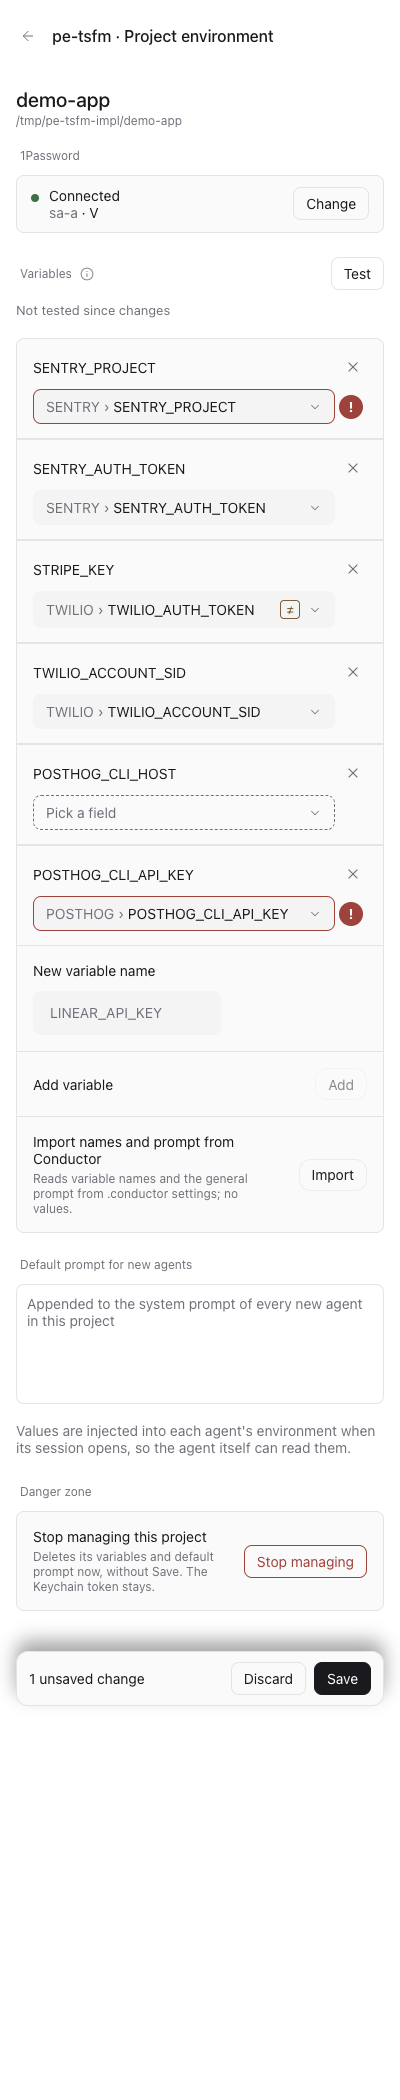
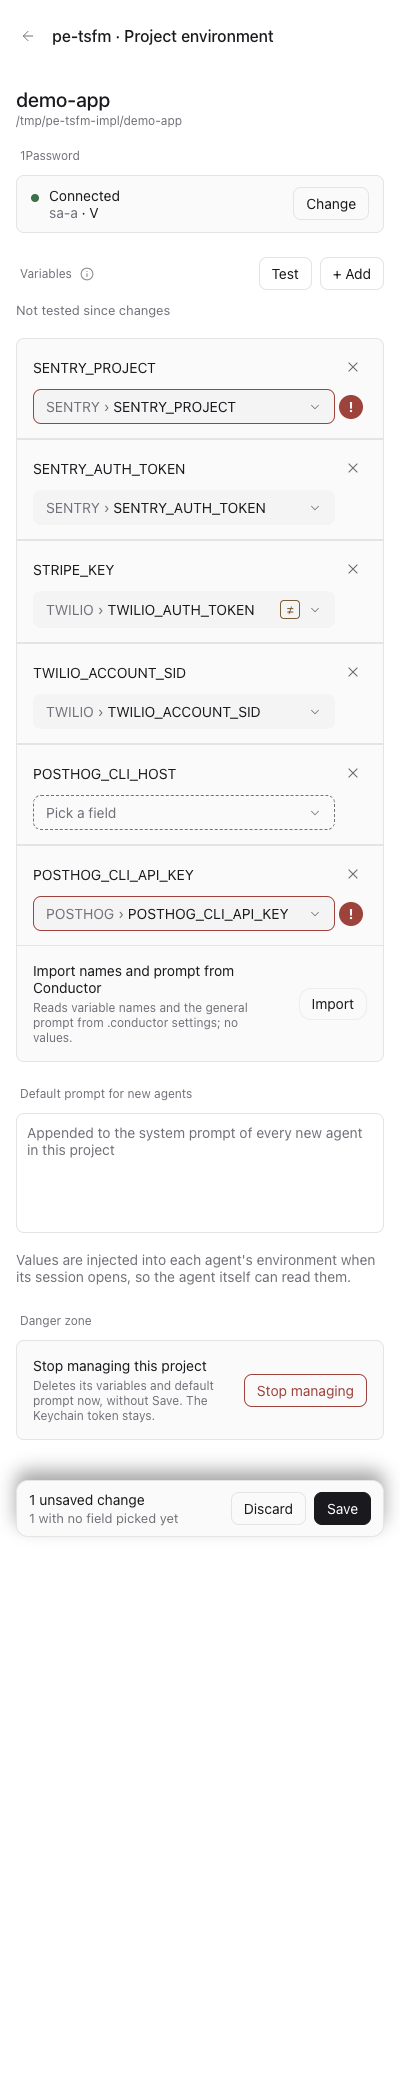
docs: project-env-test-summary-failure-mark feedback cycle 1 and main merge notes, evidence

Changed region(s): [[0.03, 0.4333, 0.99, 0.8048], [0.84, 0.5262, 0.87, 0.5571], [0.57, 0.4643, 0.6, 0.4952]]

diff --git a/project-env-test-summary-failure-mark/impl/measure.js b/project-env-test-summary-failure-mark/impl/measure.js
@@ -3,7 +3,7 @@
   const hit = (a, b) => a.l < b.r && b.l < a.r && a.t < b.b && b.t < a.b;
   const alert = document.querySelector('[role="alert"]');
   if (!alert) return JSON.stringify({ open: false });
-  let el = alert, own = null; while (el && !(own = el.querySelector('[aria-label*=" failed. "]'))) el = el.parentElement;
+  const own = [...document.querySelectorAll('[aria-label*=" failed. "]')].find((e) => e.getAttribute('aria-label').endsWith(' failed. ' + alert.textContent));
   const ownName = (own.getAttribute('aria-label').split(' failed. ')[0]);
   const a = rect(alert);
   const NAMES = ["SENTRY_PROJECT","SENTRY_AUTH_TOKEN","STRIPE_KEY","TWILIO_ACCOUNT_SID","POSTHOG_CLI_HOST","POSTHOG_CLI_API_KEY"];

diff --git a/project-env-test-summary-failure-mark.md b/project-env-test-summary-failure-mark.md
@@ -240,3 +240,37 @@ Captain: 「改 hover 泡泡」 (chat, choosing between the two options FO put)
 Asked: "回「改 hover 泡泡」或「維持下方一行」" — after FO's recommendation: "改回 hover 浮動泡泡，同時把 AC-1 放寬成「可以暫時蓋住鄰列，但不能蓋住這一列自己的欄位名稱」".
 Effect: the reason opens as a floating bubble (hover at 1280 px, click or tap at both widths), not as a line under the field. AC-1's "overlapping no other row's name, (!), field control or Remove button" is relaxed to: the open bubble may cover neighbouring rows while open, and never covers its own row's field name. The falsifier "a reason that covers another row" is withdrawn; "covers its own row's field name" replaces it.
 Supersedes: the implementation's line-under-the-field departure (candidate cad3e89).
+
+### Feedback cycle 1 (Captain amendment 1)
+
+- DONE: The reason opens as a floating bubble: hover at 1280 px, click or tap at both widths; it may cover neighbouring rows and never covers its own row's field name.
+  The bubble draws under the whole field (below the row's field control, however many lines it wraps to), above the rows below it. `shared/test-marks.ts` `nextMark` holds one open reason (hover shows, press pins, a second press closes while the pointer stays, another (!) replaces it); `client/failure-mark.tsx` `MarkBubble` is drawn in an overlay at the end of the Variables section because host rows each paint their own layer and a bubble inside its row went under the next row's text (seen in a screenshot).
+- DONE: One bubble open at a time; a second click on the (!) closes it even while the pointer stays; Tab then Enter opens it (validation Polish 1).
+  `test/test-marks.test.ts` "which (!) shows its reason" (4 tests), falsified by never closing on the second press and by a hover that keeps the old reason; `impl/out/cap-*.out` "second press closes while the pointer stays on the (!): alerts=0" at 1280 and 400 px, dark and light; `out/keys-*.out` Tab lands on the (!) and Enter opens then closes it.
+- DONE: Remove the comment in shared/test-marks.ts that restates `rowReason` (Polish 2).
+  Removed; `comment_ratio.py 0314c91 HEAD`: "code lines 387, comment lines 1, 0.3%", max 5% met.
+- DONE: Update measure.js and the tests to the amended AC-1.
+  `impl/measure.js` reports `coversOwnName`, `ownFieldTextCoveredByReason`, `statusTextOnRows` (status text such as "set" or "failed: …" on any row), `inViewport`, and lists covered neighbours as allowed. All 14 measurements (first, middle, last failed rows, the `unexpected` sentence, hover; 1280 and 400 px; dark and light): false, 0, [], true. Neighbour coverage is allowed and reported only.
+- DONE: Retake the open-reason screenshots at 1280 and 400 px, dark and light.
+  `impl/shots/{desktop,compact}-{dark,light}-tip-open*.png`, retaken at the merged head 782ac4c (30 PNGs).
+- DONE: Rerun `npm test` and typecheck; run the roborev gate with --base d197f9d.
+  After amendment: 206 of 206 and typecheck clean. Gate on that range found three real defects, each fixed and rerun: a pinned bubble left behind when rows move (now closes when the variables or a row's size change), a hover measured after the pointer left reopening it (a hover flag guards the late measurement), and the bubble placed from the (!) centre instead of below the field. Evidence lines: roborev:1061, 1062, 1063 (findings, then fixed); the final gate is the one in the main-merge note below.
+
+### Main merge (0314c91)
+
+- DONE: Merge origin/main (0314c91, PR #28 on top of #27's picker) into the branch with a merge commit.
+  a67eef3, no rebase or force-push; one conflicted file, `client/settings-screen.tsx`, resolved by hand. `shared/config.ts` merged cleanly with `variableLine` still removed.
+- DONE: Variables header reads summary, Test, "+ Add".
+  `impl/shots/desktop-dark-tip-open.png`: "3 failed · 2 set · 1 no field", Test, "+ Add"; at 400 px the summary drops under the title and Test and "+ Add" stay on it. Section title is "Variables" with the Test explanation behind the (i), as designed; #28's Add flow, name-only rows and save-bar blocking are kept. The "Check the variables" row is gone (Test is in the header).
+- DONE: Settle the save-bar note.
+  #28's "N without a field will read failed until you pick one" now reads "N with no field picked yet", matching the summary's "no field". Rows still being named (empty name) are ignored by the summary and are not a change since Test (`test-marks.test.ts` "ignores a row that is still being named"); Test sends only named rows.
+- DONE: After Test, confirm that a name-only row shows the no-field treatment.
+  `impl/out/cap-*.out`: after Test, POSTHOG_CLI_HOST (name, no field) shows the dashed "no field picked" control (pill=1), no (!) (marks-on-it=0), and the header reads "3 failed · 2 set · 1 no field"; fixing every row then reads "All 6 set".
+- DONE: Rerun `npm test` and typecheck; run the roborev gate with --base 0314c91.
+  `npm test` 256 of 256, typecheck clean. Gate: `clean on 782ac4cf1; evidence=roborev:1065`.
+- DONE: Push; point the acceptance scripts at the new head.
+  Branch pushed (782ac4c). `impl/run.sh` builds from the worktree head, so every script in `impl/` ran against 782ac4c; outputs and 30 screenshots are in `impl/out` and `impl/shots`. comment_ratio against 0314c91: 0.3%. doc_impact lists only ADR 0004: unaffected (a saved reserved name still shows "Not applied" with its reason, now in the (!)).
+
+### Summary
+
+The reason is a bubble again as the Captain ruled, drawn in an overlay so it sits above the rows below it. Main is merged; the header, the Add flow and the save-bar note agree with the summary. Limits unchanged: no hover-open screenshot (the screenshot tool hangs with the pointer on the (!); hover is measured), and after a remount the Test run is gone so the header shows nothing until Test is pressed again.
